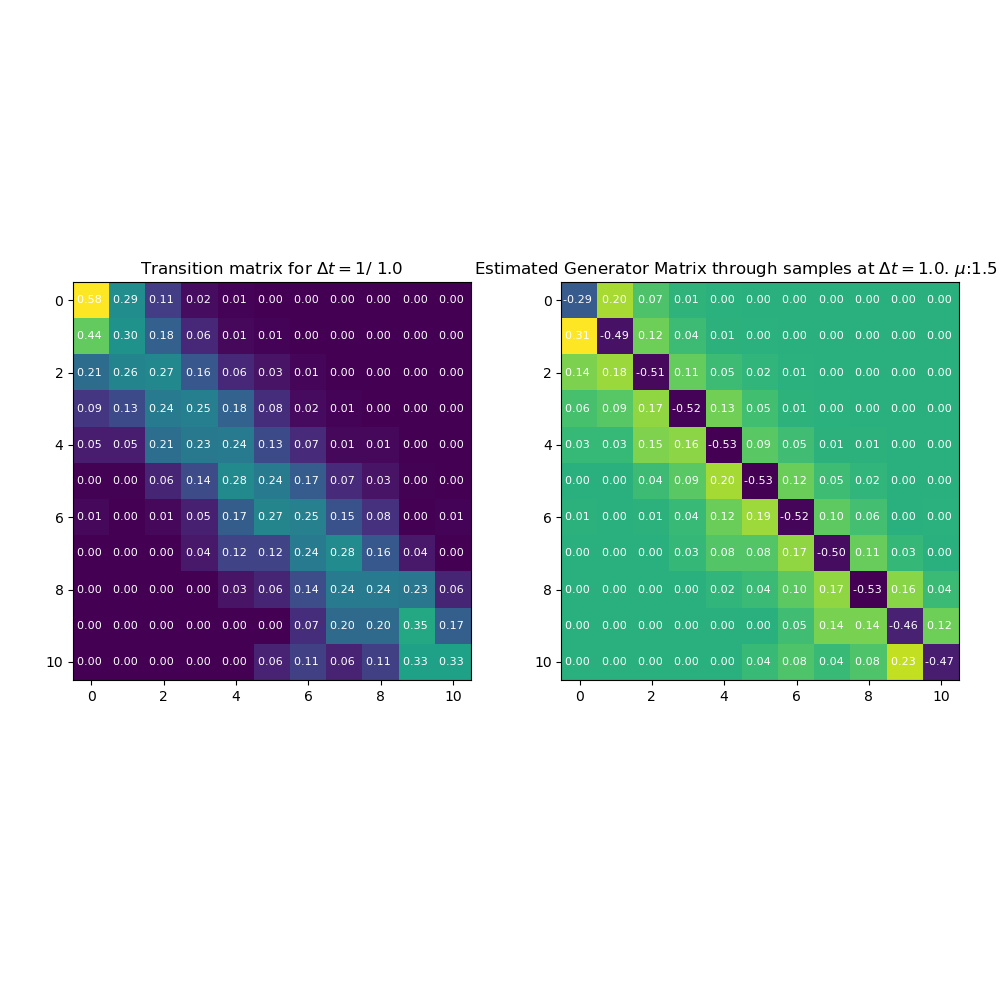
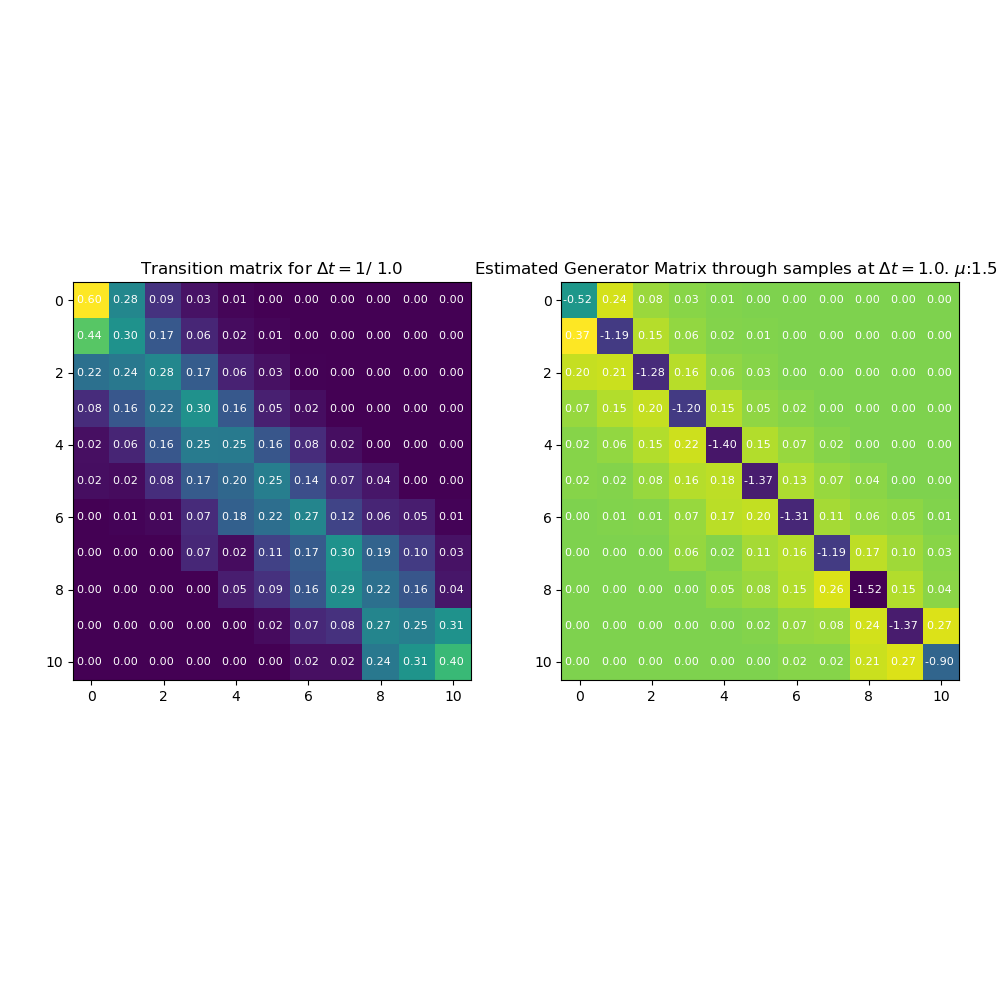
CWS

Changed region(s): [[0.558, 0.279, 0.961, 0.682], [0.217, 0.465, 0.496, 0.682]]

diff --git a/approximations.py b/approximations.py
@@ -28,6 +28,8 @@ def log_matrix_approx(state_tape, holdTimes_tape,args):
             axs[0].text(j,i,"%2.2f " % p_hat[i,j],ha="center",va="center",color="w",fontsize=font_size)
     axs[0].set_title(r'Transition matrix for $\Delta t=1/$ {}'.format(args.samprate))
 
+    # Sanity Check
+    print("Determinant of trhe Transtition Matrix : {}".format(np.linalg.det(p_hat)))
     # Compute the Solution
     Qdt = power_series_log(p_hat, 64)
     Q = Qdt / (samp_time)
@@ -43,6 +45,23 @@ def log_matrix_approx(state_tape, holdTimes_tape,args):
         args.samprate,args.lam,args.mu, format='eps',dpi=200))
     plt.show()
     print("Calculated. Displaying...")
+
+def determinant_and_sampling(state_tape, holdTimes_tape,args, doublings=6, initial_rate=1):
+
+    fig,axs = plt.subplots(1,1)
+    fig.tight_layout()
+    fig.set_size_inches(10,10)
+
+    dets = []
+    for i in range(doublings+1):
+        rate = initial_rate**i
+        sampled_tape = simple_sample(rate, state_tape, holdTimes_tape)
+        p_hat = state_transitions(np.full_like(sampled_tape, samp_time), sampled_tape)
+        dets.append(np.linalg.det(p_hat))
+
+    plt.plot(range(len(dets)),dets)
+    plt.show()
+
 
 
 def show_event_driven_mle(state_tape,holdTimes_tape,args):
@@ -127,14 +146,14 @@ if __name__ == '__main__':
     rates = {"lambda": args.lam,"mu":args.mu} 
     print(f"Working with parameters mu:{args.mu} lambda:{args.lam}")
 
-    roe = RaceOfExponentials(args.length,rates,state_limit=args.state_limit)
-    holdTimes_tape, state_tape = roe.generate_history(args.init_state)
+    # roe = RaceOfExponentials(args.length,rates,state_limit=args.state_limit)
+    # holdTimes_tape, state_tape = roe.generate_history(args.init_state)
     
     #  tbd = TrueBirthDeath(args.length,rates)
     #  holdTimes_tape, state_tape = tbd.generate_history(args.init_state)
 
-    # roe = EmbeddedMarkC_BD(args.length,rates, state_limit=args.state_limit)
-    # holdTimes_tape, state_tape = roe.generate_history(args.init_state)
+    roe = EmbeddedMarkC_BD(args.length,rates, state_limit=args.state_limit)
+    holdTimes_tape, state_tape = roe.generate_history(args.init_state)
 
     # For Sanity Check Purposes
     #  if args.show_cont_tmatx:  show_trans_matrx(holdTimes_tape, state_tape)

diff --git a/sp_sims/statistics/statistics.py b/sp_sims/statistics/statistics.py
@@ -34,7 +34,6 @@ def state_transitions(times, states):
     
     no_unique_states_visited = len(unique_elements)
     transition_matrix = np.zeros((no_unique_states_visited,no_unique_states_visited))
-    # Diagonal Matrix -> PSD(?) -> Nice properties we can analyize
 
     # Get State Pairs TODO: This only works when we have initial state = 0
     for itx in range(len(inverse)-1):
@@ -110,31 +109,31 @@ def emp_steady_state_distribution(state_tape):
     
 
 # Tapes will be a column vectors
-def simple_sample(sampling_rate,state_tapes,holding_t_tapes):
+def simple_sample(sampling_rate,state_tapes,holding_t_tape):
     # We just have to get a certain percentage of the states
     # Create array of unique elements
     sampling_time = 1/sampling_rate
-    if len(state_tapes) != len(holding_t_tapes):
+    if len(state_tapes) != len(holding_t_tape):
         print("Sizes of tapes are not equivalent. Please make sure they \
                 correspond to each other.")
         return
     # Need to find final time
     # Final Exponential Time only tells us  about
-    transition_times = np.cumsum(holding_t_tapes)
-    starting_times = np.copy(transition_times) - holding_t_tapes
-    ending_times = starting_times+holding_t_tapes
-    #  ending_time = starting_times[-1]+transition_times[-1]
+    transition_times = np.cumsum(holding_t_tape)
+    starting_times = np.copy(transition_times) - holding_t_tape
 
     # Get our sample tap
     states = []
     state_tapo = np.asarray(state_tapes)
-    for i,time in enumerate(np.arange(0,ending_times[-1],sampling_time)):
-        indices  = (time >= starting_times) & (time < ending_times)
-        state_fallen_into = state_tapo[indices]
+
+
+    for i,time in enumerate(np.arange(0,transition_times[-1],sampling_time)):
+        # Get Index of State
+        state_index  = (time >= starting_times) & (time < transition_times)
+        state_fallen_into = state_tapo[state_index]
         assert len(state_fallen_into) == 1
         #  assert (len(state_fallen_into) != 1)
         states.append(state_fallen_into[0])
-         
 
     return np.asarray(states)
     

diff --git a/sp_sims/estimators/algos.py b/sp_sims/estimators/algos.py
@@ -28,25 +28,25 @@ def power_series_log(mat,power):
     assert mat.shape[0] == mat.shape[1]
 
     # Test for convergence
-    print('||B-I||={}'.format(np.linalg.norm(mat-np.eye(mat.shape[0]),ord='fro')))
+    print('AHHH ||B-I||={}'.format(np.linalg.norm(mat-np.eye(mat.shape[0]),ord='fro')))
     final_mat = np.zeros_like(mat)
     for k in range(1,power):
-        cur_mat = (-1)**(k+1) * (1/k) *(mat-np.eye(mat.shape[0]))
+        cur_mat = (-1)**(k+1) * (1/k) *np.power((mat-np.eye(mat.shape[0])),k)
         final_mat += cur_mat
 
     return final_mat
 
-def power_series_log(mat,power):
-    assert mat.shape[0] == mat.shape[1]
+# def power_series_log(mat,power):
+    # assert mat.shape[0] == mat.shape[1]
 
-    # Test for convergence
-    print('||B-I||={}'.format(np.linalg.norm(mat-np.eye(mat.shape[0]),ord='fro')))
-    final_mat = np.zeros_like(mat)
-    for k in range(1,power):
-        cur_mat = (-1)**(k+1) * (1/k) *(mat-np.eye(mat.shape[0]))
-        final_mat += cur_mat
+    # # Test for convergence
+    # print('||B-I||={}'.format(np.linalg.norm(mat-np.eye(mat.shape[0]),ord='fro')))
+    # final_mat = np.zeros_like(mat)
+    # for k in range(1,power):
+        # cur_mat = (-1)**(k+1) * (1/k) *(mat-np.eye(mat.shape[0]))
+        # final_mat += cur_mat
 
-    return final_mat
+    # return final_mat
 
 def viterbi(obs_tape,inital_hs_probs, trans_probs,emission_probs):
     

diff --git a/sp_sims/simulators/stochasticprocesses.py b/sp_sims/simulators/stochasticprocesses.py
@@ -97,8 +97,8 @@ class EmbeddedMarkC_BD(SPManager):
                 # self.holding_times[i] = np.random.exponential(scale=(1/self.a_rate))
                 birth_or_death[i] = 1
             if states[-1]==self.state_limit and birth_or_death[i] == 1: 
-                temp1 = np.random.exponential(scale=(1/self.a_rate))
                 temp2 = np.random.exponential(scale=(1/self.s_rate))
+                temp1 = np.random.exponential(scale=(1/self.a_rate))
                 while temp2 < temp1:
                     temp1 = np.random.exponential(scale=(1/self.a_rate))
                     temp2 = np.random.exponential(scale=(1/self.s_rate))
